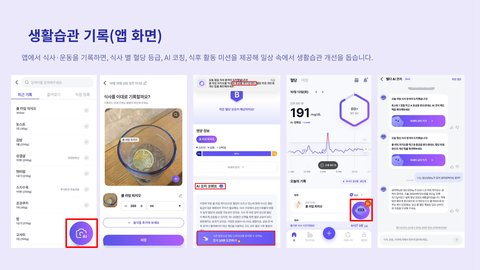
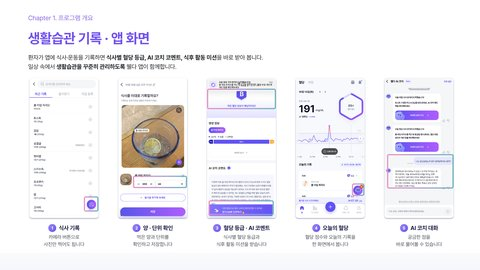
빌더: 생활습관 기록 2장(s43·s44)을 ver.B 서식으로 다시 그림
흰 배경 · Pretendard · 챕터 라벨/제목 서식, 빨간 박스 대신 그라데이션 강조 박스와 번호 설명

Claude-Session: https://claude.ai/code/session_01Hka3maEiejzxoVHqco7GLZ

diff --git a/builder/index.html b/builder/index.html
@@ -556,8 +556,8 @@ const S = [
  ['c5','자주 묻는 질문',"자주 묻는 질문입니다.\n\n• 저혈당 표시\n• 운동 후 혈당 상승\n• 스파이크와 음식\n• 센서 오류 · 탈락",['FAQ']],
  ['end','감사합니다',"마무리 장입니다.",['마무리']],
  /* 2026-11-18 추가 (서울미즈병원 제안 6·7p) — id는 s43·s44로 붙이고, 순서는 ORDER에서 5번 뒤에 둠 */
- ['c1','생활습관 기록 · 앱 화면',"환자 앱의 기록 화면입니다.\n\n• 식사 기록(사진 · AI 인식)\n• 식사별 혈당 등급\n• AI 코치 코멘트\n• 식후 활동 미션\n\n일상 속 생활습관 관리를 돕습니다.",['화면','환자 안내']],
- ['c1','생활습관 기록 · 웰다 Pro 화면',"진료실 PC의 웰다 Pro 화면입니다.\n\n• 요약 정보 · 여정 현황\n• 리포트 페이지\n• 주간 실천 현황\n• 식사 상세 · 식사 혈당 그래프\n\n다음 진료 상담에 활용합니다.",['화면','원장 제안']]
+ ['c1','생활습관 기록 · 앱 화면',"환자 앱의 기록 화면 다섯 가지입니다.\n\n1. 식사 기록: 카메라 버튼으로 사진만 찍어도 됩니다\n2. 양 · 단위 확인 후 저장\n3. 식사별 혈당 등급 · AI 코치 코멘트 · 식후 활동 미션\n4. 오늘의 혈당: 혈당 점수와 기록을 한 화면에\n5. AI 코치 대화",['화면','환자 안내']],
+ ['c1','생활습관 기록 · 웰다 Pro 화면',"진료실 PC의 웰다 Pro 화면입니다.\n\n1. 요약 정보: 기록 건수 · 평균 혈당 · 혈당 변동성 · 허리 둘레\n2. 리포트 페이지: AGP 리포트 등 출력\n3. 주간 실천 현황: 한 주의 혈당 흐름과 기록\n4. 식사 혈당 그래프: 혈당 등급 · 최대 상승폭\n\n다음 진료 상담에 활용합니다.",['화면','원장 제안']]
 ];
 /* 빌더에 보이는 순서 (s번호 = YB.S 순번, 저장된 구성과 호환되도록 번호는 고정) */
 const ORDER = [1,2,3,4,5,43,44,6,7,8,9,10,11,12,13,14,15,16,17,18,19,20,21,22,23,24,25,26,27,28,29,30,31,32,33,34,35,36,37,38,39,40,41,42];

diff --git a/README.md b/README.md
@@ -32,7 +32,7 @@ Claude 웹 버전 (팀 공유 저장 가능한 빌더 포함)
 ## 빌더 ver.B에만 있는 슬라이드
 
 - `s43` 생활습관 기록 · 앱 화면, `s44` 생활습관 기록 · 웰다 Pro 화면 (2026.11.18, 서울미즈병원 제안 6·7p에서 가져옴). 빌더에서는 1장 5번 뒤에 보입니다.
-- `files/` PPTX · `deck/` · `guide/`에는 아직 없습니다. 이 두 장은 다른 자료라 배경이 연보라색입니다.
+- ver.B 서식(흰 배경 · Pretendard · 그라데이션 강조 박스)으로 다시 그린 이미지입니다. `files/` PPTX · `deck/` · `guide/`에는 아직 없습니다.
 
 ## 서식 기준
 
